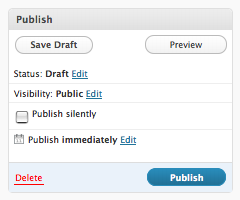
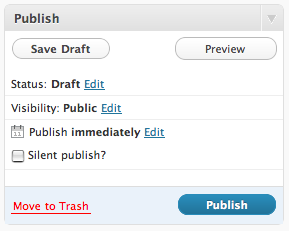
Release v2.0:
* Re-implemented entire approach
* Allow overriding of custom field used via 'silent_publish_meta_key' filter
* Add class of 'c2c-silent-publish' to admin UI div containing checkbox
* Add filter 'silent_publish_meta_key' to allow overriding custom field key name
* Remove function `add_js()`, `admin_menu()`, `add_meta_box()`
* Add functions `init()`, `add_ui()`, `save_silent_publish_status()`, `load_textdomain()`
* Add true localization support
* Move definition of strings into `init()` and properly support localization
* Full support for localization
* Store plugin instance in global variable, `$c2c_silent_publish`, to allow for external manipulation
* Remove docs from top of plugin file (all that and more are in readme.txt)
* Minor code reformatting (spacing)
* Add PHPDoc documentation
* Note compatibility with WP 2.9+, 3.0+
* Drop compatibility with versions of WP older than 2.9
* Update screenshots
* Update copyright date
* Add package info to top of plugin file
* Add Changelog, Frequently Asked Questions, Filters, and Upgrade Notice sections to readme.txt
* Add .pot file
* Add to plugin repository

Changed region(s): [[0.0292, 0.06, 0.9917, 0.99], [0.9333, 0.06, 0.9625, 0.09], [0.3792, 0.21, 0.4083, 0.24]]

diff --git a/silent-publish.php b/silent-publish.php
@@ -1,46 +1,32 @@
 <?php
+/**
+ * @package Silent_Publish
+ * @author Scott Reilly
+ * @version 2.0
+ */
 /*
 Plugin Name: Silent Publish
-Version: 1.0
-Plugin URI: http://coffee2code.com/wp-plugins/silent-publish
+Version: 2.0
+Plugin URI: http://coffee2code.com/wp-plugins/silent-publish/
 Author: Scott Reilly
 Author URI: http://coffee2code.com
+Text Domain: silent-publish
 Description: Adds the ability to publish a post without triggering pingbacks, trackbacks, or notifying update services.
 
-This plugin adds a "Publish silently" checkbox to the "Write Post" admin page.  If checked when the post is published, that
-post will not trigger the pingbacks, trackbacks, and update service notifications that might typically occur.
+Compatible with WordPress 2.9+, 3.0+
 
-In every other manner, the post is published as usual: it'll appear on the front page, archives, and feeds as expected, and no
-other aspect of the post is affected.
-
-While trackbacks and pingsbacks can already be disabled from the Add New Post/Page page, this plugin makes things easier by allowing
-a single checkbox to disable those things, in addition to disabling notification of update services which otherwise could only
-be disabled by clearing the value of the global setting, which would then affect all authors and any subsequently published posts.
-
-If a post is silently published, a custom field '_silent_publish' for the post is set to a value of 1 as a means of recording the
-action.  However, this value is not then used for any purpose as of yet.  Nor is the custom field unset or changed if the post is
-later re-published.
-
-Compatible with WordPress 2.6+, 2.7+.
-
-=>> Read the accompanying readme.txt file for more information.  Also, visit the plugin's homepage
-=>> for more information and the latest updates
-
-Installation:
-
-1. Download the file http://coffee2code.com/wp-plugins/silent-publish.zip and unzip it into your 
-/wp-content/plugins/ directory.
-2. Activate the plugin through the 'Plugins' admin menu in WordPress
-3. Click the 'Publish silently' checkbox when publishing a post to prevent triggering of pingbacks, trackbacks, or notifications to update services.
+=>> Read the accompanying readme.txt file for instructions and documentation.
+=>> Also, visit the plugin's homepage for additional information and updates.
+=>> Or visit: http://wordpress.org/extend/plugins/silent-publish/
 
 */
 
 /*
-Copyright (c) 2009 by Scott Reilly (aka coffee2code)
+Copyright (c) 2009-2010 by Scott Reilly (aka coffee2code)
 
-Permission is hereby granted, free of charge, to any person obtaining a copy of this software and associated documentation 
-files (the "Software"), to deal in the Software without restriction, including without limitation the rights to use, copy, 
-modify, merge, publish, distribute, sublicense, and/or sell copies of the Software, and to permit persons to whom the 
+Permission is hereby granted, free of charge, to any person obtaining a copy of this software and associated documentation
+files (the "Software"), to deal in the Software without restriction, including without limitation the rights to use, copy,
+modify, merge, publish, distribute, sublicense, and/or sell copies of the Software, and to permit persons to whom the
 Software is furnished to do so, subject to the following conditions:
 
 The above copyright notice and this permission notice shall be included in all copies or substantial portions of the Software.
@@ -51,78 +37,110 @@ LIABLE FOR ANY CLAIM, DAMAGES OR OTHER LIABILITY, WHETHER IN AN ACTION OF CONTRA
 IN CONNECTION WITH THE SOFTWARE OR THE USE OR OTHER DEALINGS IN THE SOFTWARE.
 */
 
-if ( !class_exists('SilentPublish') ) :
+if ( !class_exists( 'c2c_SilentPublish' ) ) :
 
-class SilentPublish {
+class c2c_SilentPublish {
 	var $field = 'silent_publish';
-	var $title = 'Silent Publish';
-	var $label = 'Publish silently';
-	var $help = 'If checked, upon publication of this post do not perform any pingbacks, trackbacks, or update service notifications.';
-	var $meta_key = '_silent_publish';
+	var $meta_key = '_silent-publish'; // Filterable via 'silent_publish_meta_key' filter
+	var $textdomain = 'silent-publish';
+	var $textdomain_subdir = 'lang';
 
-	function SilentPublish() {
-		$this->title = __($this->title);
-		$this->label = __($this->label);
-		$this->help = __($this->help);
+	/**
+	 * Constructor
+	 */
+	function c2c_SilentPublish() {
+		add_action( 'init', array( &$this, 'init' ) );
+	}
+
+	/**
+	 * Register actions/filters and allow for configuration
+	 *
+	 * @since 2.0
+	 *
+	 * @return void
+	 */
+	function init() {
+		$this->load_textdomain();
+
+		$this->meta_key = esc_attr( apply_filters( 'silent_publish_meta_key', $this->meta_key ) );
 		$this->meta_box = 'meta_box-' . $this->field;
 
-		if ( is_admin() ) {
-			add_action('admin_head', array(&$this, 'add_js'));
-			add_action('admin_menu', array(&$this, 'admin_menu'));
-		}
-		add_action('publish_post', array(&$this, 'publish_post'), 1, 1);
+		add_action( 'post_submitbox_misc_actions', array( &$this, 'add_ui' ) );
+		add_filter( 'wp_insert_post_data', array( &$this, 'save_silent_publish_status' ), 2, 2 );
+		add_action( 'publish_post', array( &$this, 'publish_post' ), 1, 1 );
 	}
 
-	function admin_menu() {
-		global $pagenow;
-		$post_ID = (int) $_GET['post'];
-		if ( $post_ID )
-			$post = get_post($post_ID);
-
-		// The silent publish capability is only exposed for a new post/page, or an existing post/page that is a draft or pending.
-		if ( in_array($pagenow, array('post-new.php', 'page-new.php')) ||
-			(!empty($post->ID) && in_array($post->post_status, array('draft', 'pending'))) ) {
-			add_meta_box($this->meta_box, $this->title, array(&$this, 'add_meta_box'), 'post', 'side');
-			add_meta_box($this->meta_box, $this->title, array(&$this, 'add_meta_box'), 'page', 'side');
-		}
+	/**
+	 * Loads the localization textdomain for the plugin.
+	 *
+	 * @since 2.0
+	 *
+	 * @return void
+	 */
+	function load_textdomain() {
+		$subdir = empty( $this->textdomain_subdir ) ? '' : '/'.$this->textdomain_subdir;
+		load_plugin_textdomain( $this->textdomain, false, basename( dirname( __FILE__ ) ) . $subdir );
 	}
 
-	// For those with JS enabled, the checkbox is moved into the Publish meta_box and the plugin's meta_box is hidden.
-	// The fallback for non-JS people is that the plugin's meta_box is shown and the checkbox can be found there.
-	function add_js() {
-		echo <<<JS
-		<script type="text/javascript">
-		jQuery(document).ready(function($) {
-			$('#div-{$this->field}').insertBefore($('.misc-pub-section-last'));
-			$('#{$this->meta_box}').hide();
-		});
-	
-		</script>
-JS;
+	/**
+	 * Draws the UI to prompt user if silent publish should be enabled for the post.
+	 *
+	 * @since 2.0
+	 *
+	 * @return void (Text is echoed.)
+	 */
+	function add_ui() {
+		global $post;
+		if ( $post->post_status == 'publish' )
+			return;
+		$value = get_post_meta( $post->ID, $this->meta_key, true );
+		$checked = checked( $value, '1', false );
+		echo "<div class='misc-pub-section'><label class='selectit c2c-silent-publish' for='{$this->field}' title='";
+		esc_attr_e( 'If checked, upon publication of this post do not perform any pingbacks, trackbacks, or update service notifications.', $this->textdomain );
+		echo "'>\n";
+		echo "<input id='{$this->field}' type='checkbox' $checked value='1' name='{$this->field}' />\n";
+		_e( 'Silent publish?', $this->textdomain );
+		echo '</label></div>' . "\n";
 	}
 
-	function add_meta_box() {
-		echo <<<HTML
-		<div id="div-{$this->field}" class="misc-pub-section"><label class="selectit" for="{$this->field}" title="{$this->help}"><input type="checkbox" value="open" id="{$this->field}" name="{$this->field}" /> {$this->label}</label></div>
-		<p>{$this->help}</p>
-HTML;
+	/**
+	 * Update the value of the silent publish custom field, but only if it is supplied.
+	 *
+	 * @since 2.0
+	 *
+	 * @param array $data Data
+	 * @param array $postarr Array of post fields and values for post being saved
+	 * @return array The unmodified $data
+	 */
+	function save_silent_publish_status( $data, $postarr ) {
+		$new_value = isset( $postarr[$this->field] ) ? $postarr[$this->field] : '';
+		update_post_meta( $postarr['ID'], $this->meta_key, $new_value );
+		return $data;
 	}
 
+	/**
+	 * Handles silent publishing if the associated checkbox is checked.
+	 *
+	 * Save the fact this post was silently published
+	 * This does not attempt to clear this value if the post later gets republished without silent publishing.
+	 * Also, this stored value is not currently used, merely saved.
+	 *
+	 * @since 1.0
+	 *
+	 * @param int $post_id Post ID
+	 * @return void
+	 */
 	function publish_post( $post_id ) {
-		if ( isset($_POST[$this->field]) && $_POST[$this->field] ) {
-			define('WP_IMPORTING', true);
-			// Save the fact this post was silently published
-			// This does not attempt to clear this value if the post later gets republished without silent publishing.
-			// Also, this stored value is not currently used, merely saved.
-			update_post_meta($post_id, $this->meta_key, 1);
+		if ( isset( $_POST[$this->field] ) && $_POST[$this->field] ) {
+			define( 'WP_IMPORTING', true );
+			update_post_meta( $post_id, $this->meta_key, 1 );
 		}
 	}
 
-} // end SilentPublish
+} // end c2c_SilentPublish
+
+$GLOBALS['c2c_silent_publish'] = new c2c_SilentPublish();
 
 endif; // end if !class_exists()
-
-if ( class_exists('SilentPublish') )
-	new SilentPublish();
 
 ?>
